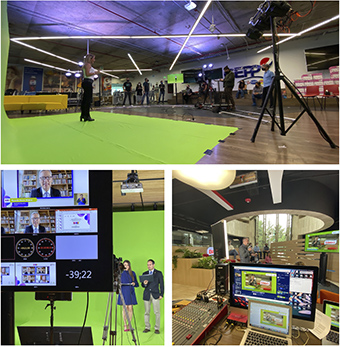
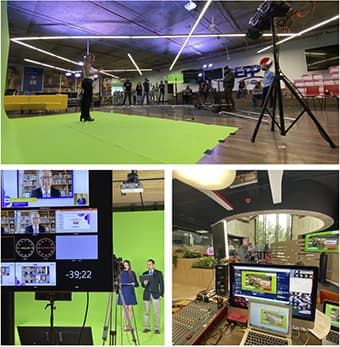
optimizing images

diff --git a/dist/index.html b/dist/index.html
@@ -15,7 +15,7 @@ Servicios
 Nos adaptamos a las necesodades y deseos específicos de cada
             cliente. <br>
 Personalizamos cada evento para que sea único.
-</p> <div class="mt-12 md:flex md:gap-4 md:items-start"> <article class=""> <figure class="w-full h-96 md:h-48 lg:h-64 overflow-hidden group"> <img src="/_astro/service-1.Ch_bs7M5_1W6EQV.webp" alt="imagen sobre servicio 1" class="w-full h-auto group-hover:scale-110 transition" width="339" height="301" loading="lazy" decoding="async"> </figure> <div class="bg-black text-white text-center py-12 text-3xl font-bold"> <h3>Contenido <br> Audiovisual</h3> </div> </article> <article class="mt-4 md:mt-0"> <figure class="w-full h-96 md:h-48 lg:h-64 overflow-hidden group"> <img src="/_astro/service-2.tFeG5jpP_1lBXV3.webp" alt="imagen sobre servicio 1" class="w-full h-auto group-hover:scale-110 transition" width="339" height="301" loading="lazy" decoding="async"> </figure> <div class="bg-black text-white text-center py-12 text-3xl font-bold"> <h3>Eventos</h3> </div> </article> <article class="mt-4 md:mt-0"> <figure class="w-full h-96 md:h-48 lg:h-64 overflow-hidden group"> <img src="/_astro/service-3.C5Fdbcc5_Pah16.webp" alt="imagen sobre servicio 1" class="w-full h-auto group-hover:scale-110 transition" width="340" height="347" loading="lazy" decoding="async"> </figure> <div class="bg-black text-white text-center py-12 text-3xl font-bold"> <h3>Desarrollo <br> Web</h3> </div> </article> </div> </div> </section> <section class="py-44 objective" id="objective" data-astro-cid-7t6pyfd6> <div class="max-w-6xl mx-auto px-4 md:px-6" data-astro-cid-7t6pyfd6> <h3 class="text-3xl font-bold text-red-600 text-center max-w-md" data-astro-cid-7t6pyfd6>
+</p> <div class="mt-12 md:flex md:gap-4 md:items-start"> <article class=""> <figure class="w-full h-96 md:h-48 lg:h-64 overflow-hidden group"> <img src="/_astro/service-1.Ch_bs7M5_1W6EQV.webp" alt="imagen sobre servicio 1" class="w-full h-auto group-hover:scale-110 transition" width="339" height="301" loading="lazy" decoding="async"> </figure> <div class="bg-black text-white text-center py-12 text-3xl font-bold"> <h3>Contenido <br> Audiovisual</h3> </div> </article> <article class="mt-4 md:mt-0"> <figure class="w-full h-96 md:h-48 lg:h-64 overflow-hidden group"> <img src="/_astro/service-2.tFeG5jpP_1lBXV3.webp" alt="imagen sobre servicio 1" class="w-full h-auto group-hover:scale-110 transition" width="339" height="301" loading="lazy" decoding="async"> </figure> <div class="bg-black text-white text-center py-12 text-3xl font-bold"> <h3>Eventos</h3> </div> </article> <article class="mt-4 md:mt-0"> <figure class="w-full h-96 md:h-48 lg:h-64 overflow-hidden group"> <img src="/_astro/service-3.CDsU1Oy5_Z4lsOS.webp" alt="imagen sobre servicio 1" class="w-full h-auto group-hover:scale-110 transition" width="340" height="347" loading="lazy" decoding="async"> </figure> <div class="bg-black text-white text-center py-12 text-3xl font-bold"> <h3>Desarrollo <br> Web</h3> </div> </article> </div> </div> </section> <section class="py-44 objective" id="objective" data-astro-cid-7t6pyfd6> <div class="max-w-6xl mx-auto px-4 md:px-6" data-astro-cid-7t6pyfd6> <h3 class="text-3xl font-bold text-red-600 text-center max-w-md" data-astro-cid-7t6pyfd6>
 Nuestro objetivo no es solo satisfacer sus necesidades, <br data-astro-cid-7t6pyfd6>
 sino anticiparnos a ellas... <br data-astro-cid-7t6pyfd6> <span class="text-white" data-astro-cid-7t6pyfd6>
 Sorprenderlo con soluciones <br data-astro-cid-7t6pyfd6> creativas y prácticas.
